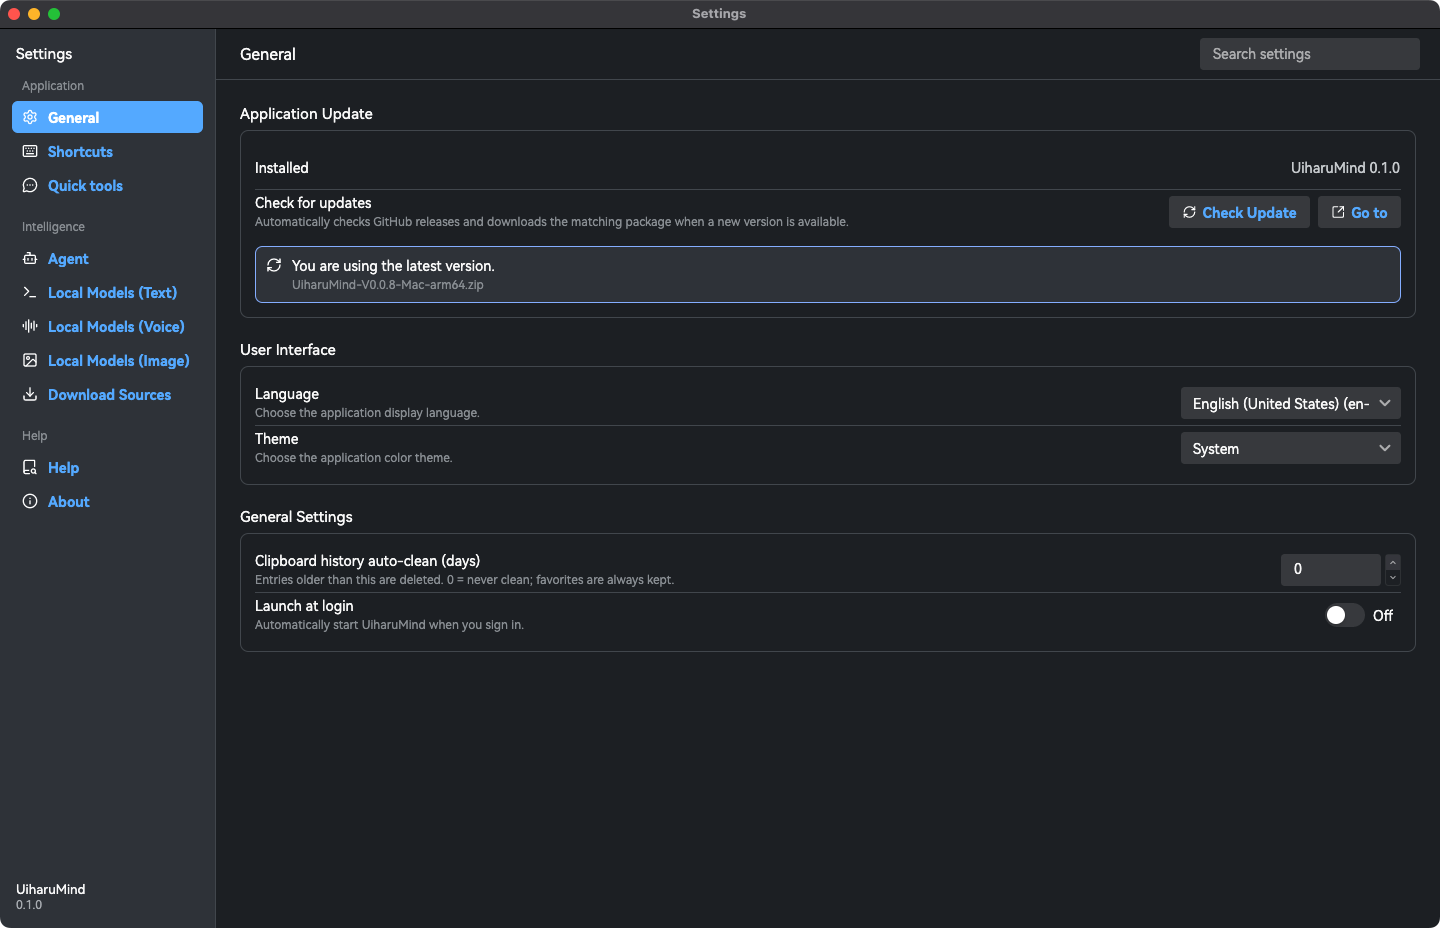
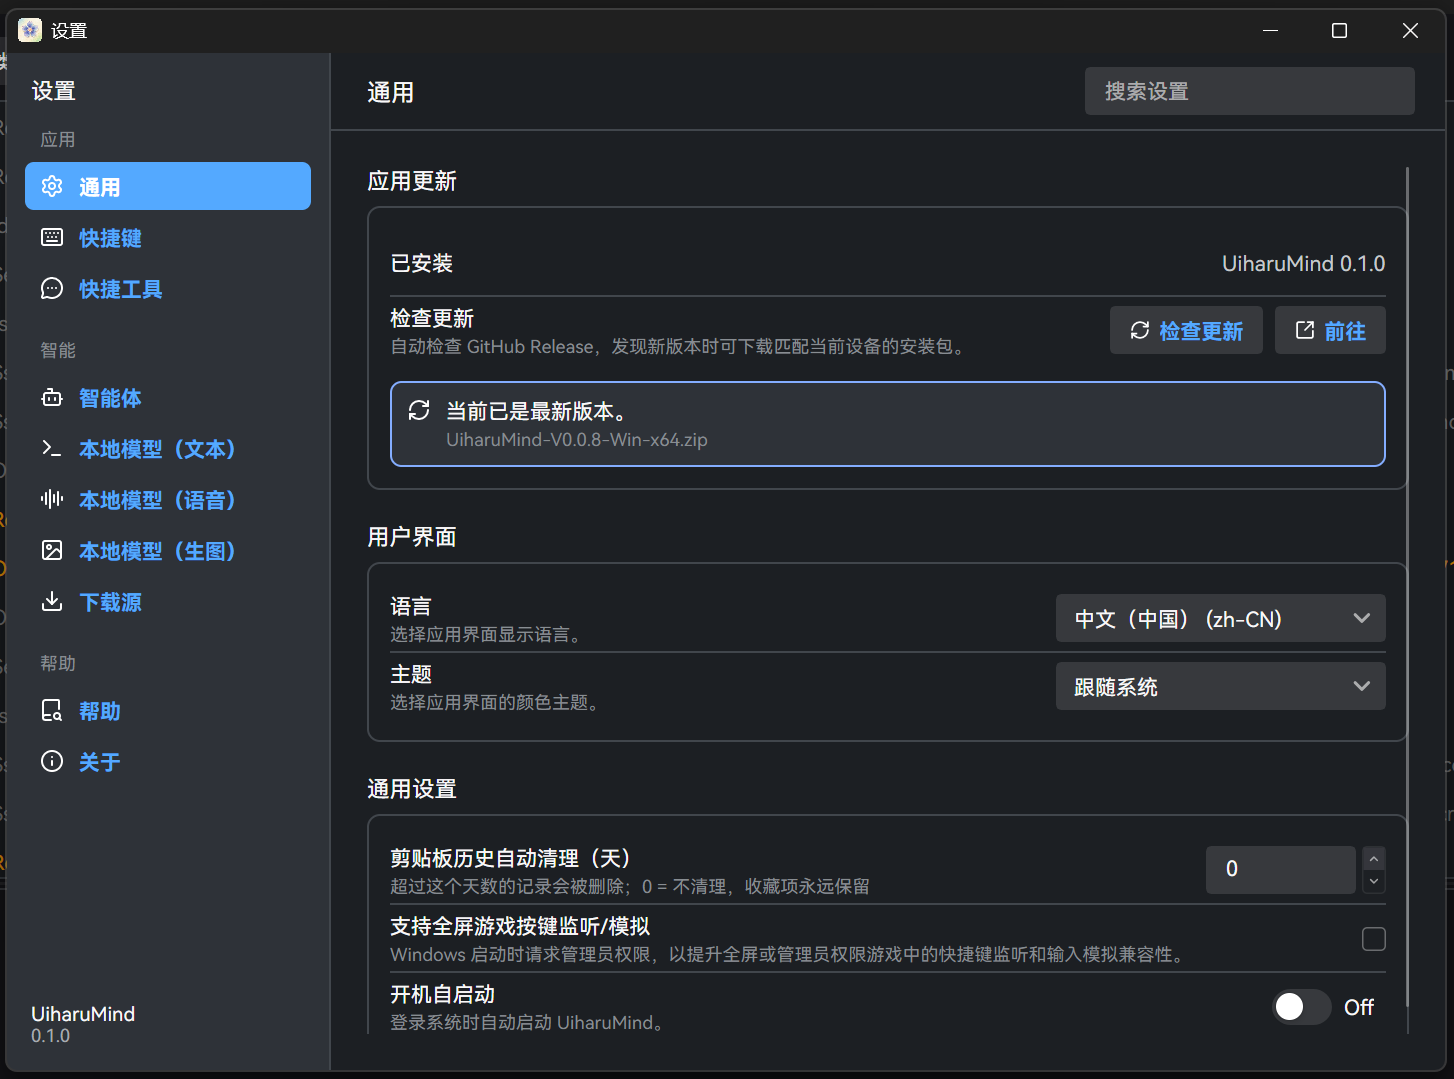
更新截图并同步中英文 README

diff --git a/README.md b/README.md
@@ -13,14 +13,24 @@ one hotkey away. Local speech synthesis / recognition and image generation are b
 
 ## Features
 
-- **Local and remote models** — run GGUF models through the llama.cpp runtime, or add any OpenAI-compatible endpoint.
-  API keys are encrypted on your machine. Vision, image and audio models are registered separately.
+- **Local and remote models** — run GGUF models through the llama.cpp runtime, browse and download them from the
+  built-in GGUF repository (HuggingFace search, model card, quantisation sizes), or add any OpenAI-compatible
+  endpoint. A remote model starts from a provider preset or a custom URL; the model ID is pulled from the provider
+  together with its input / output / cache-read price and vision tag. API keys are encrypted on your machine. Vision,
+  image and audio models are registered separately.
 - **Chat and Agent modes** — one conversation page, switched in the left sidebar. *Chat* is a plain conversation;
-  *Agent* gets tools (file read/write, shell, web search, knowledge search…), a workspace folder and a permission tier.
+  *Agent* gets tools (file read/write, shell, web search, knowledge search…), a workspace folder and a permission tier,
+  with a live panel for context budget, cache hits, sub-agents, scheduled tasks and per-tool prompt cost. Sub-agents
+  can be pinned to their own models.
 - **Role-play characters** — built-in and hand-made characters with persona, greetings, prompt snippets and voices.
-  Agent characters carry a toolset, skills, extensions and a sub-agent roster.
-- **Group chat and away mode** — agent groups talk in serial or parallel rounds with an optional host, and collect
-  everything they wrote into an artifact board. Hand your seat to an avatar and the group keeps working.
+  Agent characters carry a per-tool switchboard (file operations, shell, web search, image reading, speaking,
+  knowledge search, sub-agents, scheduled tasks, task list, plan mode) plus a set of skills and extensions.
+- **Group chat and away mode** — agent groups talk in serial or parallel rounds, at a conservative or aggressive pace,
+  in a chosen speaking order, with an optional host; each member opens as its own session window. Everything they
+  wrote is collected into an artifact board. Hand your seat to an avatar and the group keeps working.
+- **Token usage and cost** — every request is logged with input / output / cached tokens, estimated cost, latency and
+  failure; overview cards, a spending trend chart, model and provider rankings, failure reasons and a request log that
+  exports to CSV.
 - **Quick tools** (global hotkeys) — screen capture with OCR / vision Q&A / annotation, quick ask, clipboard history,
   translation, auto-click record and replay, hold-to-talk dictation.
 - **Knowledge, memory, world settings** — RAG over files, folders and URLs; agent-written notes kept across sessions;
@@ -34,26 +44,36 @@ one hotkey away. Local speech synthesis / recognition and image generation are b
 
 ## Screenshots
 
+▶ [Watch an agent session from task to answer (60 s, 4.7 MB GIF)](Images/screenshots/chat-agent-demo.gif)
+
 <table>
   <tr>
-    <td width="50%"><img src="Images/screenshots/chat.png" alt="Conversation and agent session"></td>
-    <td width="50%"><img src="Images/screenshots/agent.png" alt="Agent workspace with tools and skills"></td>
+    <td width="50%"><img src="Images/screenshots/chat.png" alt="Agent conversation: context meter, cache hits and capability panel"></td>
+    <td width="50%"><img src="Images/screenshots/characters.png" alt="Character page: agent capabilities, tools and skills"></td>
   </tr>
   <tr>
-    <td><img src="Images/screenshots/characters.png" alt="Characters"></td>
-    <td><img src="Images/screenshots/group.png" alt="Group chat"></td>
+    <td><img src="Images/screenshots/group.png" alt="Group chat: members, speaking order, host and avatar seat"></td>
+    <td><img src="Images/screenshots/create-group.png" alt="Creating a group: members with their own models, speaking order, pacing"></td>
   </tr>
   <tr>
-    <td><img src="Images/screenshots/models.png" alt="Models"></td>
-    <td><img src="Images/screenshots/settings-general.png" alt="Settings"></td>
+    <td><img src="Images/screenshots/group-member-session.png" alt="A group member's own session window"></td>
+    <td><img src="Images/screenshots/models.png" alt="Models: remote endpoints with prices and vision tags"></td>
   </tr>
   <tr>
-    <td><img src="Images/screenshots/screen-capture.png" alt="Screen capture with OCR"></td>
-    <td><img src="Images/screenshots/clipboard.png" alt="Clipboard history"></td>
+    <td><img src="Images/screenshots/add-remote-model-1.png" alt="Adding a remote model from a provider preset"></td>
+    <td><img src="Images/screenshots/add-remote-model-2.png" alt="Custom remote model configuration and the provider catalogue"></td>
   </tr>
   <tr>
-    <td><img src="Images/screenshots/translate.png" alt="Translation"></td>
-    <td><img src="Images/screenshots/auto-click.png" alt="Auto click"></td>
+    <td><img src="Images/screenshots/get-models.png" alt="Browsing the built-in GGUF repository"></td>
+    <td><img src="Images/screenshots/usage.png" alt="Usage and cost: tokens, cache hit rate, spending trend"></td>
+  </tr>
+  <tr>
+    <td><img src="Images/screenshots/usage-ranking.png" alt="Usage: model ranking, failure reasons, request log"></td>
+    <td><img src="Images/screenshots/settings-general.png" alt="Settings: general"></td>
+  </tr>
+  <tr>
+    <td><img src="Images/screenshots/settings-agent.png" alt="Settings: agent and sub-agent models"></td>
+    <td><img src="Images/screenshots/settings-about.png" alt="Settings: about"></td>
   </tr>
 </table>
 
@@ -83,12 +103,14 @@ the bundle keeps its identity; it is lost if you rebuild it with a different cer
 
 ## Quick start
 
-**Online model** — open **Model**, click **Add remote model**, fill in the endpoint (for example
-`https://api.example.com/v1/chat/completions`), the model ID and your API key, then choose that model in the title bar
-of the **Conversation** page.
+**Online model** — open **Model**, click **Add remote model**, pick a provider preset (or **Custom configuration** and
+the endpoint, for example `https://api.example.com/v1/chat/completions`), paste your API key and pull the model ID —
+the picker shows each model's input / output / cache-read price and whether it takes images. Then choose that model in
+the title bar of the **Conversation** page.
 
-**Local model** — open **Settings → Local Models (Text)** and download a llama.cpp runtime for your system, put GGUF
-files into the model folder (**Model → folder icon**), load one from the list and start chatting.
+**Local model** — open **Model → Get models** and download a GGUF from the built-in repository, or put files into the
+model folder (**Model → folder icon**); install a llama.cpp runtime for your system in **Settings → Local Models
+(Text)**, load the model from the list and start chatting.
 
 Nothing else is required. If a model does not show up, check the model folder, whether the runtime is installed, and
 whether the file is a supported GGUF.
